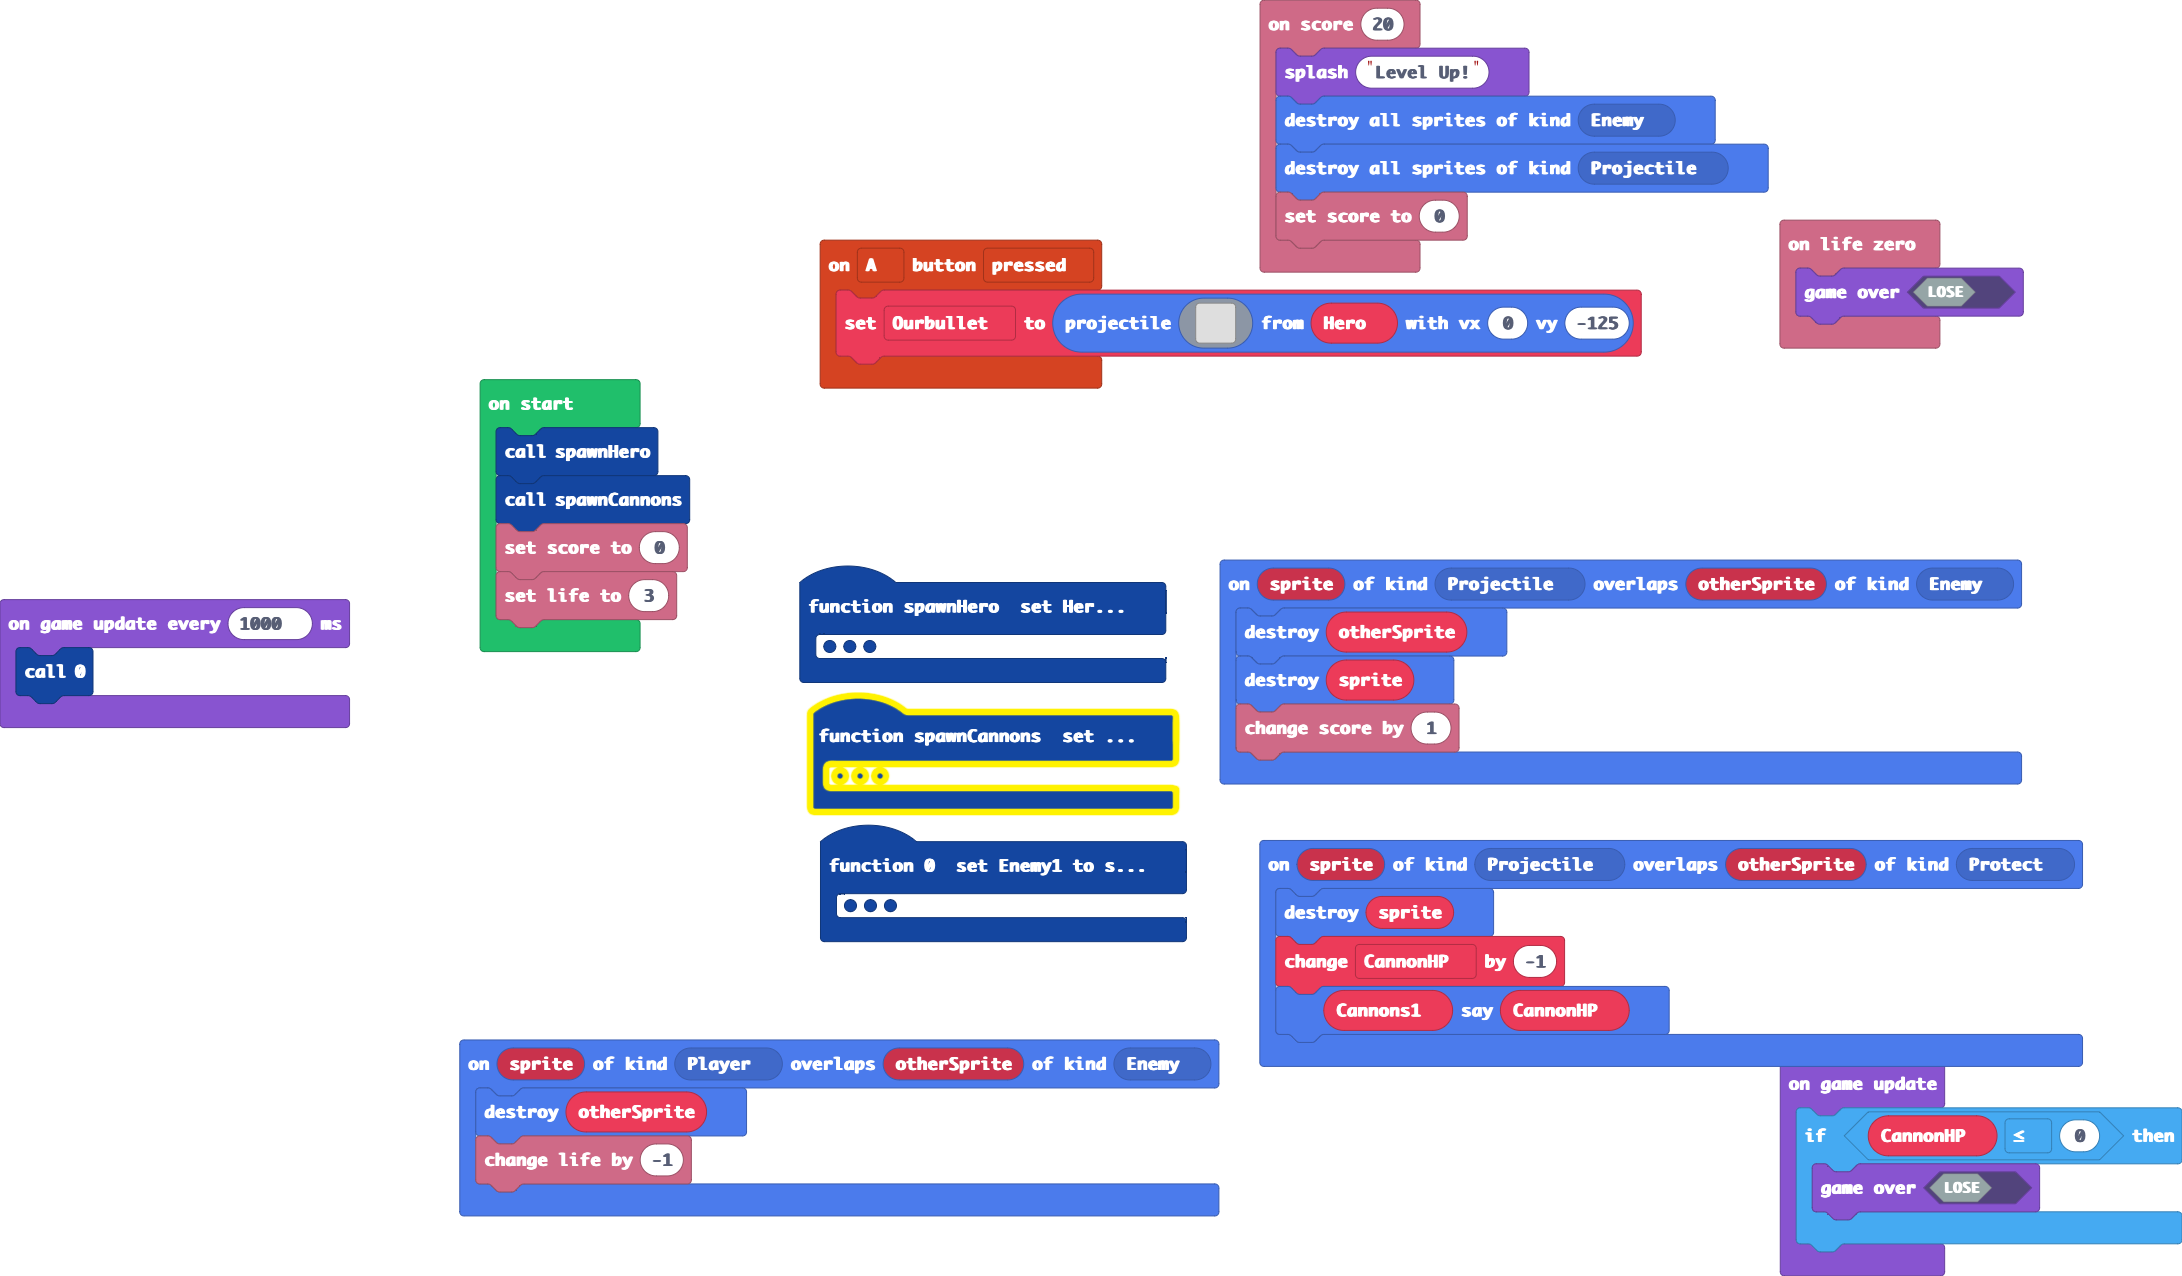
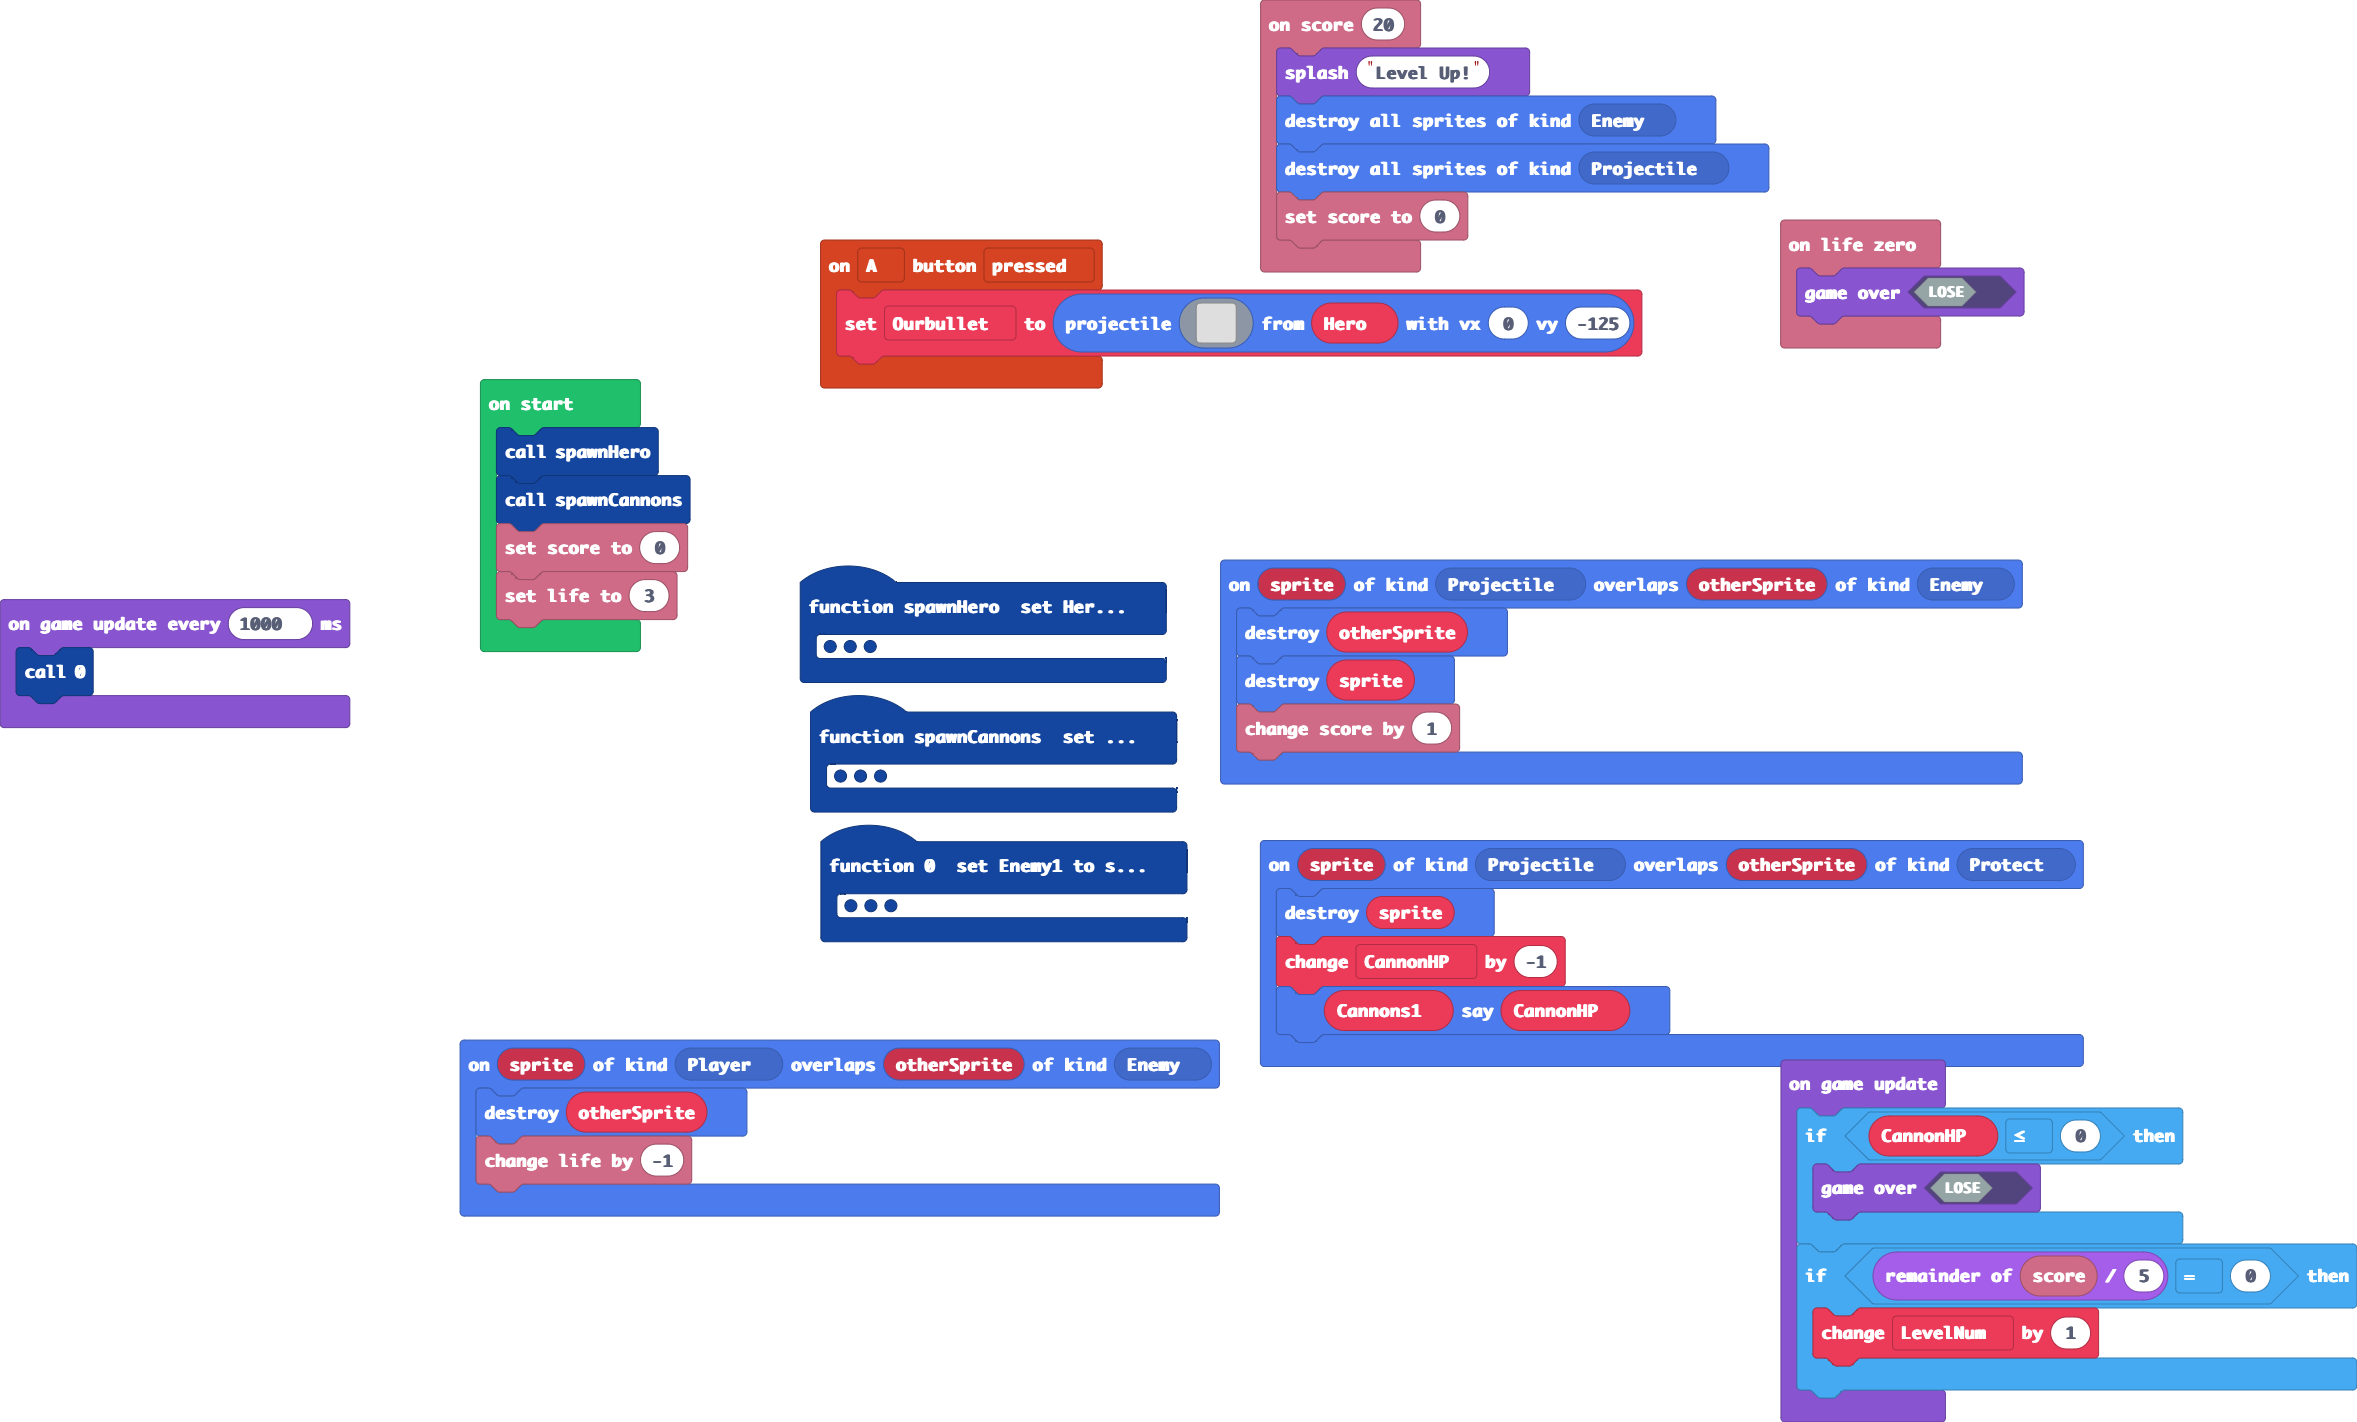
Update main.blocks, main.ts

diff --git a/main.ts b/main.ts
@@ -198,6 +198,7 @@ sprites.onOverlap(SpriteKind.Player, SpriteKind.Enemy, function (sprite, otherSp
     sprites.destroy(otherSprite)
     info.changeLifeBy(-1)
 })
+let LevelNum = 0
 let enemy_shot: Sprite = null
 let Enemy1: Sprite = null
 let Cannons3: Sprite = null
@@ -214,6 +215,9 @@ info.setLife(3)
 game.onUpdate(function () {
     if (CannonHP <= 0) {
         game.gameOver(false)
+    }
+    if (info.score() % 5 == 0) {
+        LevelNum += 1
     }
 })
 game.onUpdateInterval(1000, function () {
